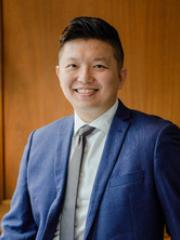
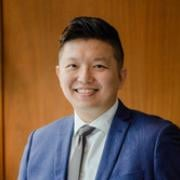
style: drop AI-toned 'In plain terms' labels and decorative section numbers
- Replace 'In plain terms ·' / 'in plain language' framing labels with plain
  headings (Why it matters / Key terms).
- Remove zero-padded section numbers from eyebrows, step flow, problem & method
  sections, and the demo pipeline/panels; order now reads from names + arrows.
- (Includes roster reorder and re-optimised 180x180 team headshots.)

diff --git a/content/team.ts b/content/team.ts
@@ -31,6 +31,22 @@ export const TEAM: Member[] = [
     profileUrl: "https://www.cyber.uq.edu.au/profile/245/ryan-ko",
   },
   {
+    name: "Mrs Kana Smith",
+    role: "Centre Manager",
+    org: "The University of Queensland",
+    bio: "Centre Manager of the UQ Cyber Research Centre since 2021, leading strategic planning, business development and the delivery of research grants and partnerships.",
+    initials: "KS",
+    photo: "/team/kana-smith.jpg",
+    profileUrl: "https://www.cyber.uq.edu.au/profile/242/kana-smith",
+  },
+  {
+    name: "Mr Chen Feng Chang",
+    role: "Industry Partner",
+    org: "SEMICON TREND PTY LTD",
+    bio: "Industry partner from SEMICON TREND PTY LTD, supporting the project's pathway toward real-world testing of quantum-safe chips.",
+    initials: "CC",
+  },
+  {
     name: "Dr Wenlu Zhang",
     role: "Postdoctoral Research Fellow",
     org: "The University of Queensland",
@@ -47,21 +63,5 @@ export const TEAM: Member[] = [
     initials: "ZW",
     photo: "/team/zihan-wang.jpg",
     profileUrl: "https://www.zihan.com.au/",
-  },
-  {
-    name: "Mrs Kana Smith",
-    role: "Centre Manager",
-    org: "The University of Queensland",
-    bio: "Centre Manager of the UQ Cyber Research Centre since 2021, leading strategic planning, business development and the delivery of research grants and partnerships.",
-    initials: "KS",
-    photo: "/team/kana-smith.jpg",
-    profileUrl: "https://www.cyber.uq.edu.au/profile/242/kana-smith",
-  },
-  {
-    name: "Mr Chen Feng Chang",
-    role: "Industry Partner",
-    org: "SEMICON TREND PTY LTD",
-    bio: "Industry partner from SEMICON TREND PTY LTD, supporting the project's pathway toward real-world testing of quantum-safe chips.",
-    initials: "CC",
   },
 ];

diff --git a/app/demo/page.tsx b/app/demo/page.tsx
@@ -48,10 +48,7 @@ function Screen({
   return (
     <div id={`stage-${stage}`} className="scroll-mt-24 overflow-hidden border border-ink/15 bg-[#0C1116] shadow-card">
       <div className="flex items-center justify-between border-b border-white/10 px-3 py-2 font-mono text-[11px] uppercase tracking-widest text-white/55">
-        <span className="flex items-center gap-2">
-          <span className="text-uqpurple">{stage}</span>
-          {label}
-        </span>
+        <span>{label}</span>
         {meta && <span className="text-instrument">{meta}</span>}
       </div>
       <div className="p-4">{children}</div>
@@ -182,7 +179,6 @@ export default function Demo() {
               const tone = isVerdict ? verdictTone : "border-hairline text-ink";
               const inner = (
                 <span className={`flex items-center gap-2 border ${tone} px-3 py-2`}>
-                  <span className="font-mono text-[11px] text-uqpurple">{s.n}</span>
                   <span className="font-mono text-xs uppercase tracking-wide">{s.name}</span>
                   {isVerdict && (
                     <span className="flex items-center gap-1.5 font-mono text-[10px] uppercase">
@@ -244,9 +240,7 @@ export default function Demo() {
 
         {/* Verdict */}
         <div id="stage-05" className="mt-6 max-w-xl scroll-mt-24">
-          <div className="mb-2 flex items-center gap-2 font-mono text-[11px] uppercase tracking-widest text-graphite">
-            <span className="text-uqpurple">05</span> Verdict
-          </div>
+          <div className="mb-2 font-mono text-[11px] uppercase tracking-widest text-graphite">Verdict</div>
           <VerdictPanel chip={chip} traceCount={traceCount} algo={algo} />
         </div>
 

diff --git a/app/problem/page.tsx b/app/problem/page.tsx
@@ -13,13 +13,10 @@ export default function Problem() {
           Quantum computing breaks today&apos;s cryptography. The fix has to reach the chip.
         </h1>
         <div className="mt-12 grid gap-12">
-          {PROBLEM_SECTIONS.map((s, i) => (
-            <article key={s.heading} className="grid gap-3 border-t border-hairline pt-8 md:grid-cols-[8rem_1fr]">
-              <span className="font-mono text-sm text-uqpurple">{String(i + 1).padStart(2, "0")}</span>
-              <div>
-                <h2 className="font-display text-2xl font-semibold">{s.heading}</h2>
-                <p className="mt-3 max-w-2xl text-lg leading-relaxed text-graphite">{s.body}</p>
-              </div>
+          {PROBLEM_SECTIONS.map((s) => (
+            <article key={s.heading} className="max-w-2xl border-t border-hairline pt-8">
+              <h2 className="font-display text-2xl font-semibold tracking-tight">{s.heading}</h2>
+              <p className="mt-3 text-lg leading-relaxed text-graphite">{s.body}</p>
             </article>
           ))}
         </div>

diff --git a/app/method/page.tsx b/app/method/page.tsx
@@ -25,12 +25,9 @@ export default function Method() {
         </p>
         <ol className="mt-12 grid gap-px overflow-hidden border border-hairline bg-hairline">
           {PIPELINE.map((p) => (
-            <li key={p.n} className="grid gap-3 bg-paper p-8 md:grid-cols-[8rem_1fr]">
-              <span className="font-mono text-sm text-uqpurple">{p.n}</span>
-              <div>
-                <h2 className="font-display text-2xl font-semibold">{p.title}</h2>
-                <p className="mt-3 max-w-2xl text-lg leading-relaxed text-graphite">{p.body}</p>
-              </div>
+            <li key={p.n} className="bg-paper p-8">
+              <h2 className="font-display text-2xl font-semibold tracking-tight">{p.title}</h2>
+              <p className="mt-3 max-w-2xl text-lg leading-relaxed text-graphite">{p.body}</p>
             </li>
           ))}
         </ol>

diff --git a/components/Eyebrow.tsx b/components/Eyebrow.tsx
@@ -1,8 +1,9 @@
-export default function Eyebrow({ index, children }: { index?: string; children: React.ReactNode }) {
+// `index` is accepted for call-site compatibility but no longer rendered —
+// decorative section numbers were dropped in favour of the tick + label.
+export default function Eyebrow({ children }: { index?: string; children: React.ReactNode }) {
   return (
     <p className="flex items-center gap-2.5 font-mono text-xs uppercase tracking-[0.22em] text-graphite">
       <span aria-hidden className="h-px w-7 bg-uqpurple/70" />
-      {index ? <span className="text-uqpurple">{index}</span> : null}
       <span>{children}</span>
     </p>
   );

diff --git a/components/StepFlow.tsx b/components/StepFlow.tsx
@@ -5,8 +5,7 @@ export default function StepFlow() {
     <ol className="grid gap-px overflow-hidden border border-hairline bg-hairline sm:grid-cols-3">
       {TEST_STEPS.map((s) => (
         <li key={s.n} className="bg-surface p-8">
-          <span className="font-mono text-xs tracking-[0.2em] text-uqpurple">{s.n}</span>
-          <h3 className="mt-4 font-display text-xl font-semibold tracking-tight">{s.title}</h3>
+          <h3 className="font-display text-xl font-semibold tracking-tight">{s.title}</h3>
           <p className="mt-3 text-sm leading-relaxed text-graphite">{s.body}</p>
         </li>
       ))}

diff --git a/app/page.tsx b/app/page.tsx
@@ -46,7 +46,7 @@ export default function Home() {
 
       <Container className="py-20">
         <div className="border-l-2 border-uqpurple bg-surface p-8 shadow-card md:p-10">
-          <div className="font-mono text-xs uppercase tracking-[0.2em] text-uqpurple">In plain terms · {PLAIN.heading}</div>
+          <div className="font-mono text-xs uppercase tracking-[0.2em] text-uqpurple">{PLAIN.heading}</div>
           <p className="mt-4 max-w-3xl text-pretty text-lg leading-relaxed text-ink">{PLAIN.body}</p>
           <div className="mt-6 flex flex-wrap gap-2">
             {BENEFICIARIES.map((b) => (

diff --git a/app/resources/page.tsx b/app/resources/page.tsx
@@ -20,7 +20,7 @@ export default function Resources() {
 
         {/* Plain-language glossary */}
         <div className="mt-12 border-l-2 border-uqpurple bg-surface p-6 shadow-card md:p-8">
-          <div className="font-mono text-xs uppercase tracking-[0.2em] text-uqpurple">Key terms, in plain language</div>
+          <div className="font-mono text-xs uppercase tracking-[0.2em] text-uqpurple">Key terms</div>
           <dl className="mt-5 grid gap-x-8 gap-y-5 sm:grid-cols-2">
             {GLOSSARY.map((g) => (
               <div key={g.term}>
